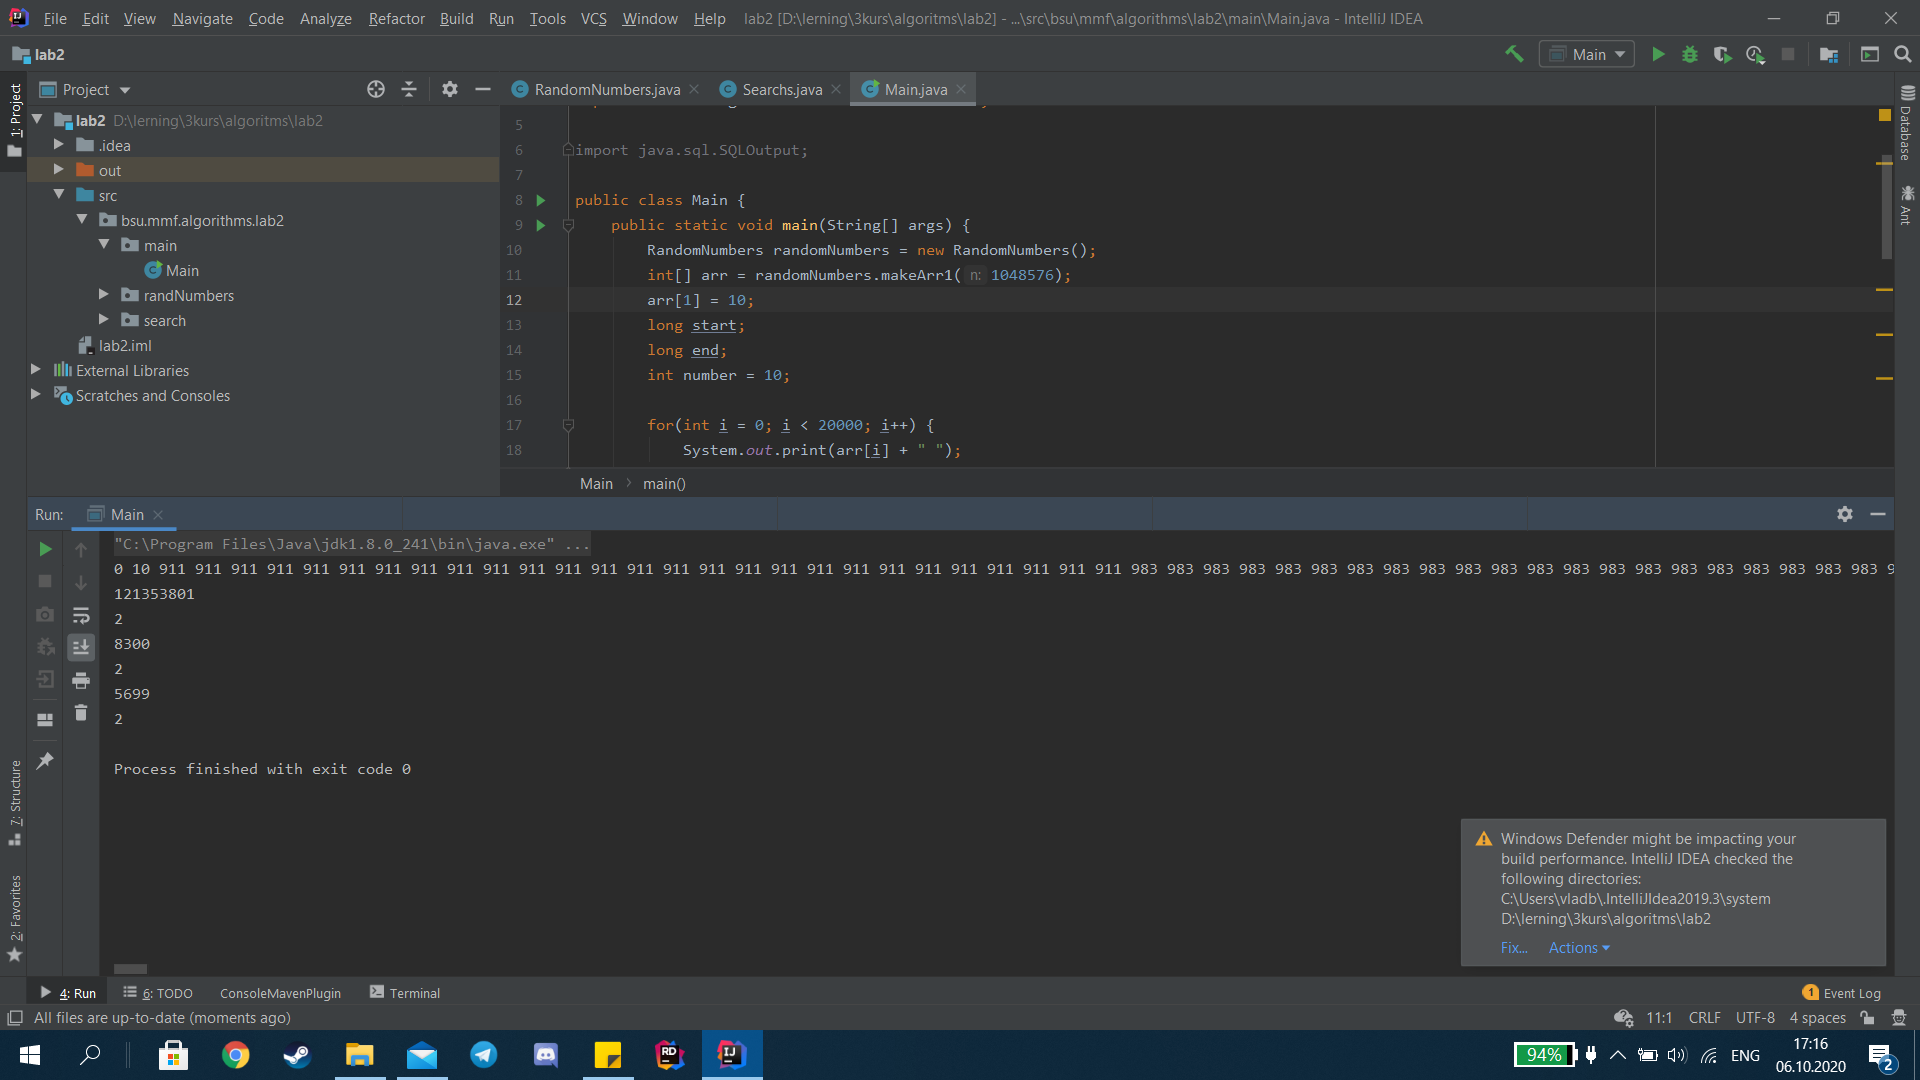
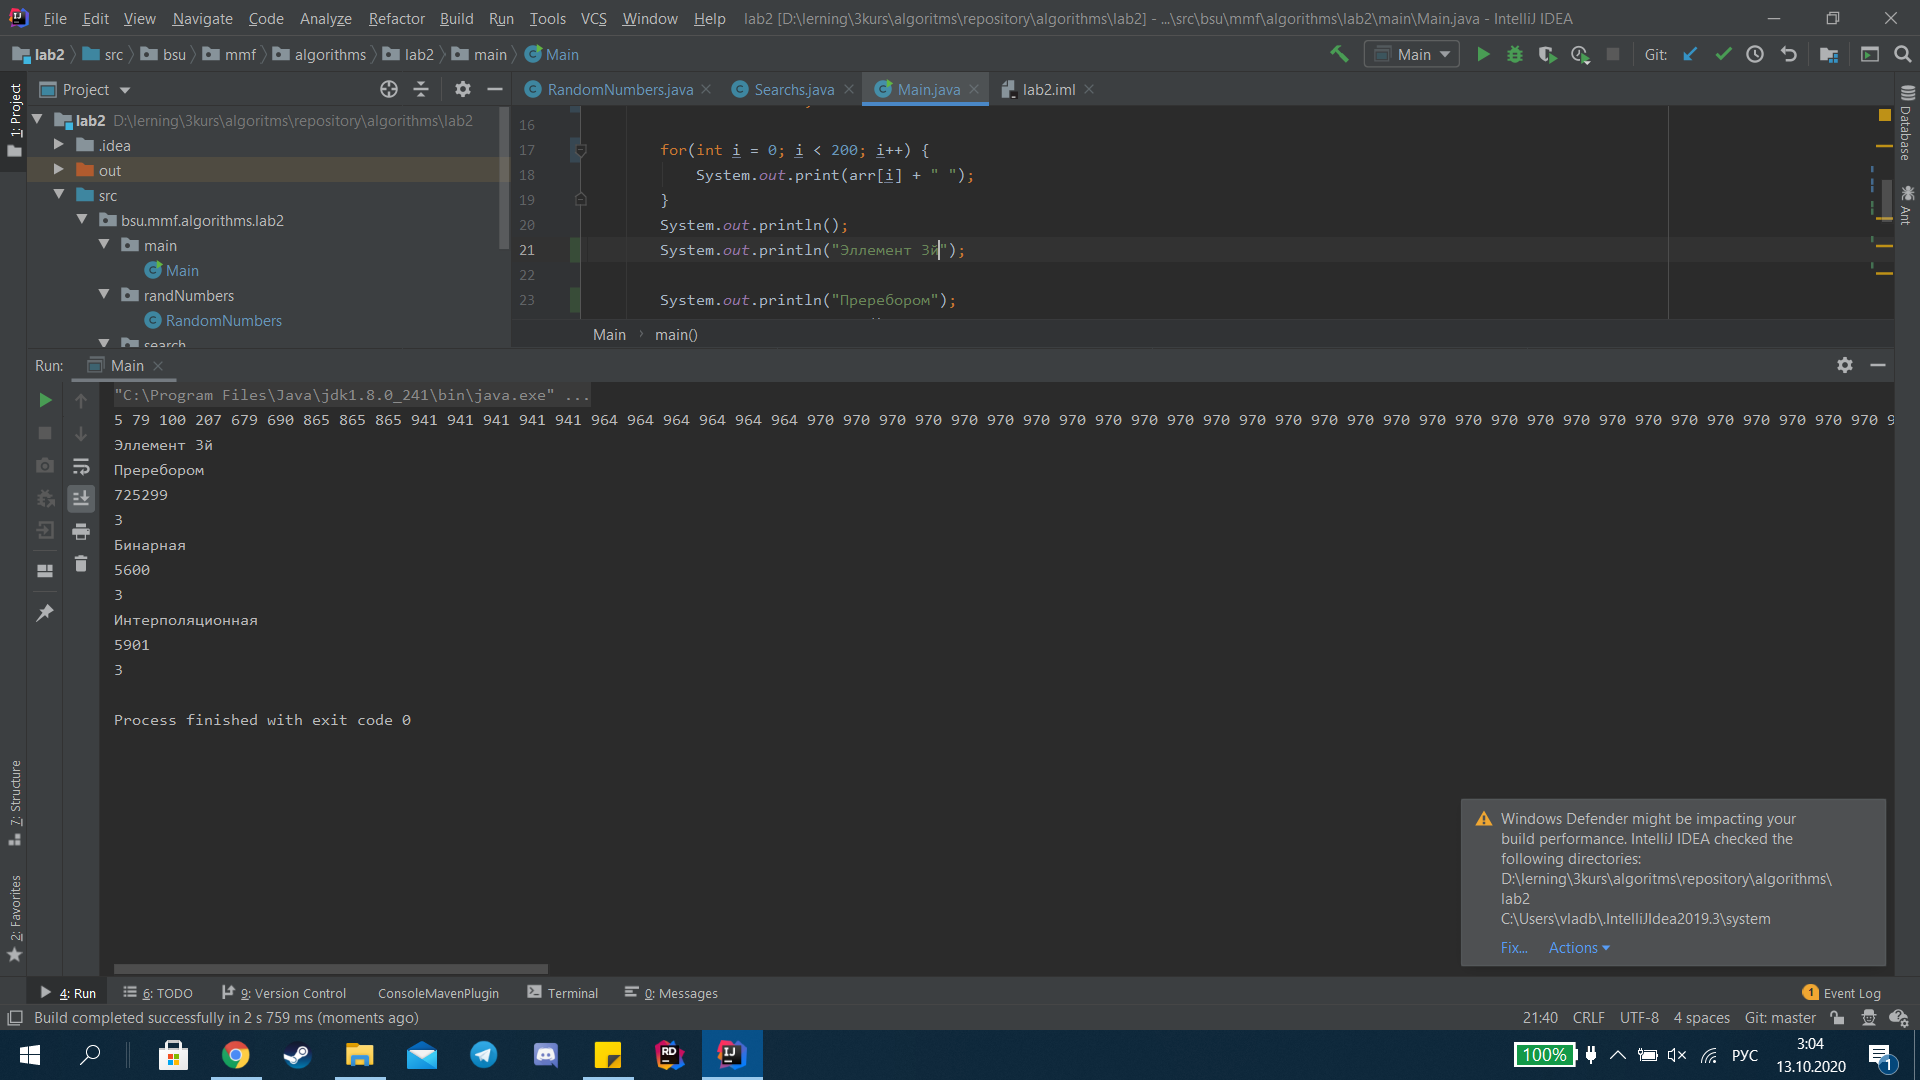
solution was modified

diff --git a/lab2/src/bsu/mmf/algorithms/lab2/search/Searchs.java b/lab2/src/bsu/mmf/algorithms/lab2/search/Searchs.java
@@ -3,7 +3,7 @@ package bsu.mmf.algorithms.lab2.search;
 public class Searchs {
     public static int simpleSearch(int[] arr, int number) {
         for(int i = 0; i < arr.length; i++){
-            if( number == arr[i]){
+            if( number == arr[i] ){
                 return i + 1;
             }
         }
@@ -11,53 +11,43 @@ public class Searchs {
     }
 
     public static int binarySearch(int[] arr, int number) {
+        int mid;
         int left = 0;
-        int right = arr.length;
-        int search = -1;
-        while (left <= right) // пока левая граница не "перескочит" правую
+        int right = arr.length - 1;
+        while (left <= right)
         {
-            int mid = (left + right) / 2; // ищем середину отрезка
-            if (number == arr[mid]) {  // если ключевое поле равно искомому
-                search = mid;     // мы нашли требуемый элемент,
-                break;            // выходим из цикла
+            mid = (left + right) / 2;
+            if (number == arr[mid]) {
+               return mid + 1;
             }
-            if (number < arr[mid])     // если искомое ключевое поле меньше найденной середины
-                right = mid - 1;  // смещаем правую границу, продолжим поиск в левой части
-            else                  // иначе
-                left = mid + 1;   // смещаем левую границу, продолжим поиск в правой части
+            if (number < arr[mid])
+                right = mid - 1;
+            else
+                left = mid + 1;
         }
-        if (search == -1)     // если индекс элемента по-прежнему -1, элемент не найден
-            return -1;
-        else          // иначе выводим элемент, его ключ и значение
-           return search + 1;
+        return -1;
     }
 
-    public static int interpolationSearch(int[] sortedArray, int toFind) {
-        // Возвращает индекс элемента со значением toFind или -1, если такого элемента не существует
+    public static int interpolationSearch(int[] arr, int number) {
         int mid;
-        int low = 0;
-        int high = sortedArray.length - 1;
-
-        while (sortedArray[low] < toFind && sortedArray[high] > toFind) {
-            if (sortedArray[high] == sortedArray[low]) // Защита от деления на 0
+        int left = 0;
+        int right = arr.length - 1;
+        while (arr[left] < number && arr[right] > number) {
+            if (arr[right] == arr[left]) {
                 break;
-            mid = low + ((toFind - sortedArray[low]) * (high - low)) / (sortedArray[high] - sortedArray[low]);
-
-            if (sortedArray[mid] < toFind)
-                low = mid + 1;
-            else if (sortedArray[mid] > toFind)
-                high = mid - 1;
-            else
+            }
+            mid = left + (number * (right - left))/(arr[right] - arr[left]);
+            if (arr[mid] < number)
+                left = mid + 1;
+            if (arr[mid] > number)
+                right = mid - 1;
+            if (arr[mid] == number)
                 return mid + 1;
         }
-
-        if (sortedArray[low] == toFind)
-            return low + 1;
-        if (sortedArray[high] == toFind)
-            return high + 1;
-
-        return -1; // Not found
+        if (arr[left] == number)
+            return left + 1;
+        if (arr[right] == number)
+            return right + 1;
+        return -1;
     }
-
-
 }

diff --git a/lab2/src/bsu/mmf/algorithms/lab2/main/Main.java b/lab2/src/bsu/mmf/algorithms/lab2/main/Main.java
@@ -9,28 +9,32 @@ public class Main {
     public static void main(String[] args) {
         RandomNumbers randomNumbers = new RandomNumbers();
         int[] arr = randomNumbers.makeArr1(1048576);
-        arr[1] = 10;
+        arr[2] = 100;
         long start;
         long end;
-        int number = -2;
+        int number = 100;
 
-        for(int i = 0; i < 20000; i++) {
+        for(int i = 0; i < 200; i++) {
             System.out.print(arr[i] + " ");
         }
         System.out.println();
+        System.out.println("Эллемент 3й");
 
+        System.out.println("Преребором");
         start = System.nanoTime();
         Searchs.simpleSearch(arr,number);
         end = System.nanoTime();
         System.out.println(end - start);
         System.out.println(Searchs.simpleSearch(arr, number));
 
+        System.out.println("Бинарная");
         start = System.nanoTime();
         Searchs.binarySearch(arr,number);
         end = System.nanoTime();
         System.out.println(end - start);
         System.out.println(Searchs.binarySearch(arr, number));
 
+        System.out.println("Интерполяционная");
         start = System.nanoTime();
         Searchs.interpolationSearch(arr,number);
         end = System.nanoTime();

diff --git a/lab2/src/bsu/mmf/algorithms/lab2/randNumbers/RandomNumbers.java b/lab2/src/bsu/mmf/algorithms/lab2/randNumbers/RandomNumbers.java
@@ -13,7 +13,9 @@ public class RandomNumbers {
         int[] array = new int[n];
         int a = (int)((Math.random() * 10));
         array[0] = a;
-        for(int i = 1; i < n; i++){
+        a = (int)((Math.random() * 100));
+        array[1] = a;
+        for(int i = 2; i < n; i++){
             a = (int)((Math.random() * 1000));
             if(array[i - 1] < a){
                 array[i] = a;
